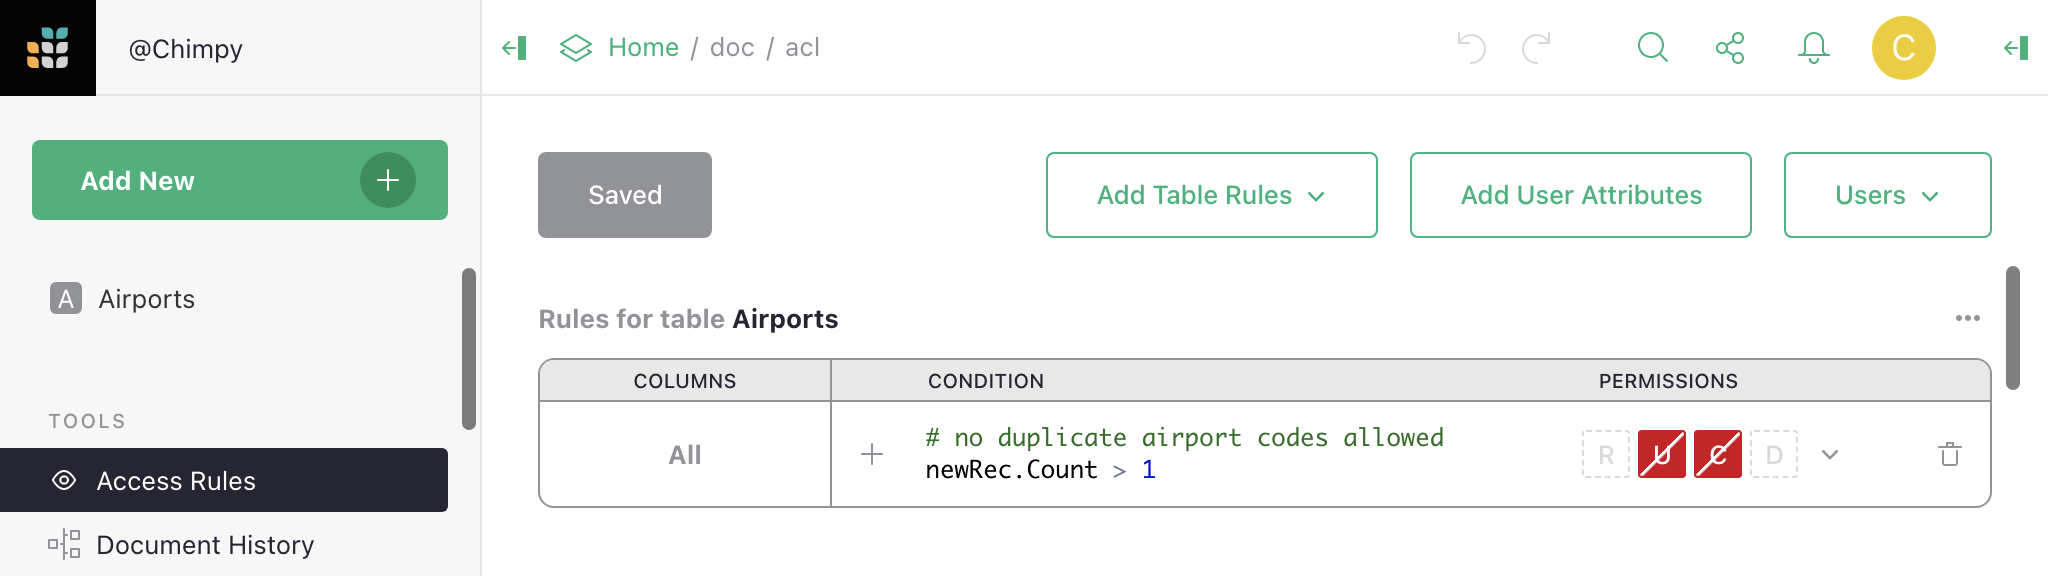
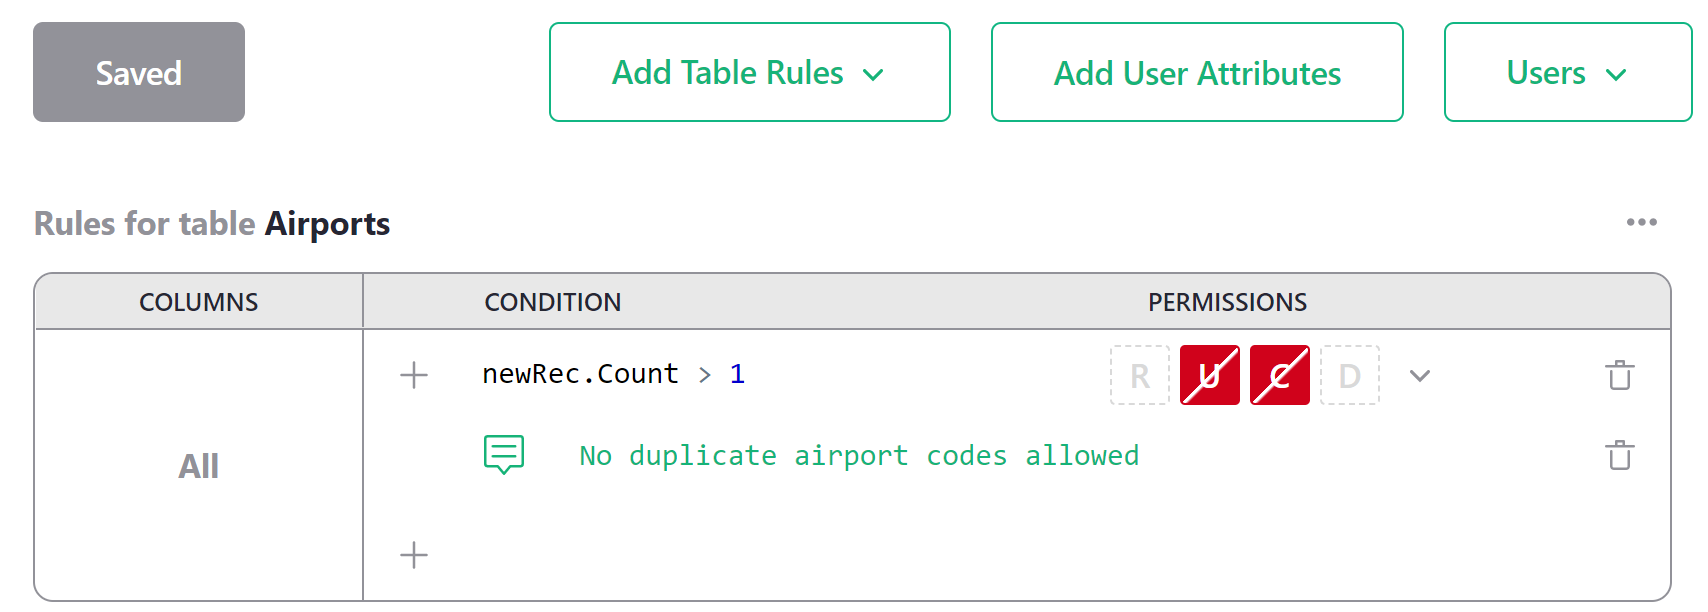
Updated memo section to reflect addition of memo button

diff --git a/help/access-rules.md b/help/access-rules.md
@@ -411,22 +411,14 @@ structure](#lock-down-structure) -- is an important first step in limiting data 
 
 When a user receives an error message denying them access because of a
 rule, it can be helpful to give specific details that will help them understand
-the problem.  You can do this by adding a comment in the condition formula.
-The first comment in a condition will be passed on to the user in the
-event of the condition leading to a denial of access (either by
-matching, or failing to match).  Comments are python-style,
-starting with a `#`.  They can come after the formula like this:
+the problem.  You can do this by adding a memo for the condition. First, click 
+the memo icon to the right of your condition.
 
-```py
-newRec.Count > 1  # No duplicates allowed
-```
+![Comment Icon](images/access-rules/access-rules-comment-icon.png)
 
-Or before it, like this:
+Type the error message you wish to display into the entry box. Be sure to save your changes.
 
-```py
-# Talk to Arjun to get full access
-user.Access == OWNER
-```
+![Comment Added](images/access-rules/access-rules-comment-added.png)
 
 As a full example, suppose we have a table listing airports, and we want to
 forbid entry of a new record with the same airport code as an existing
